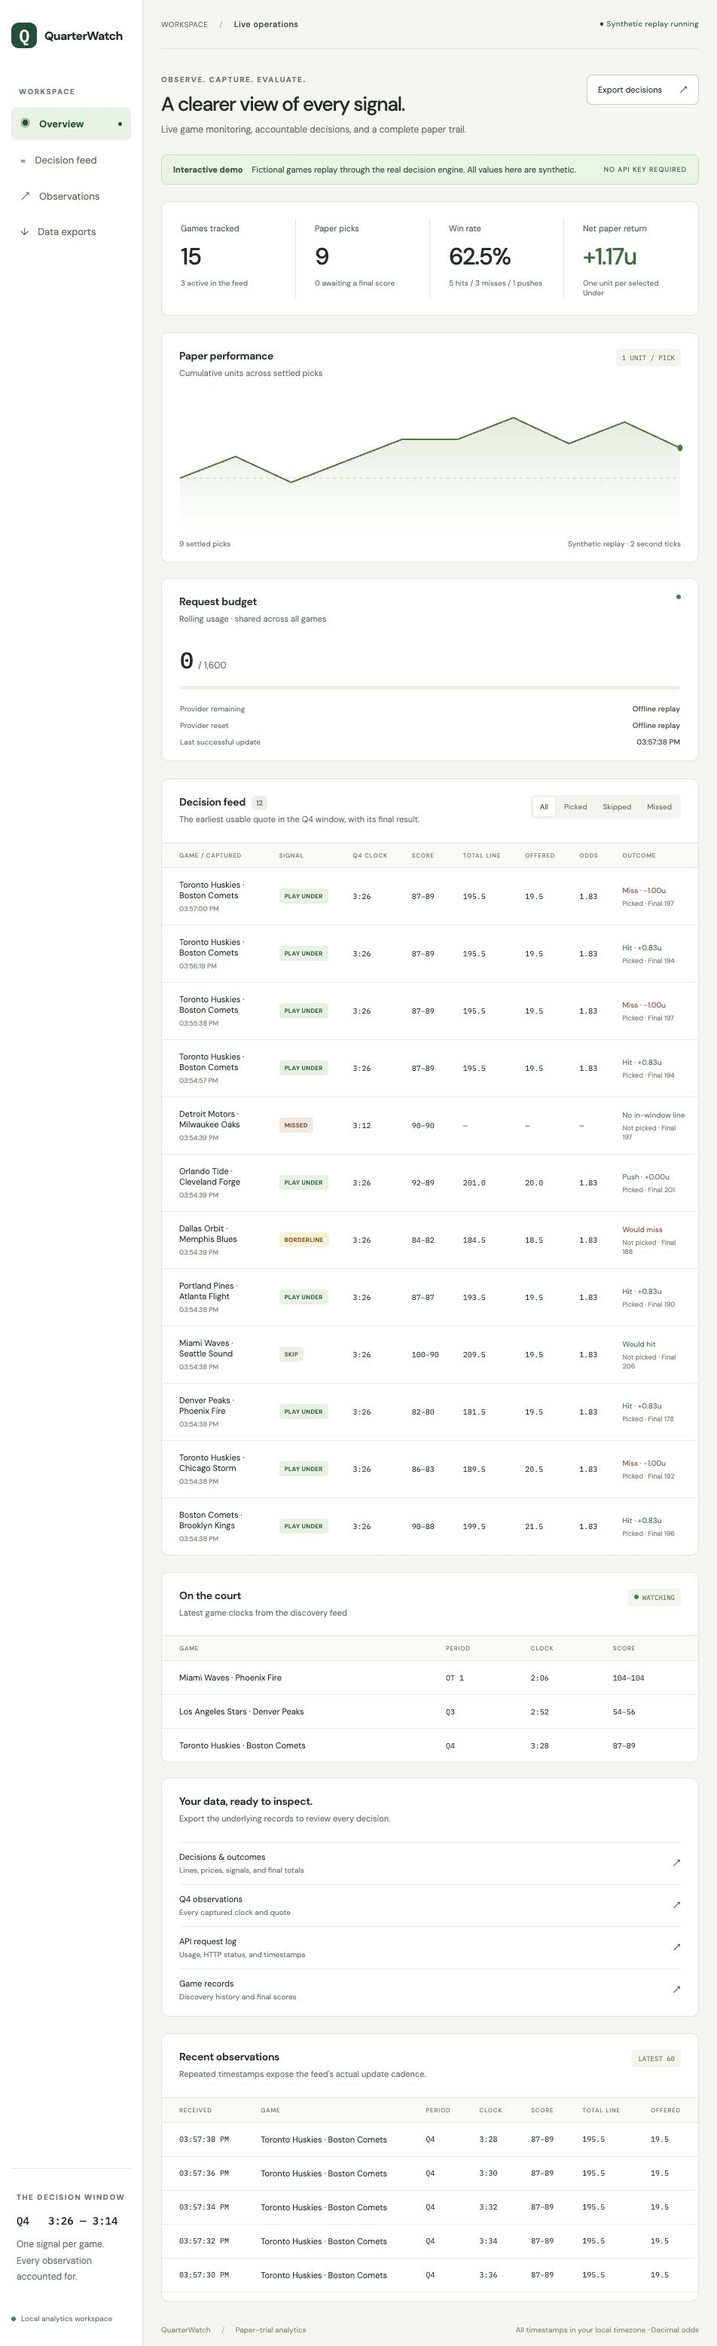
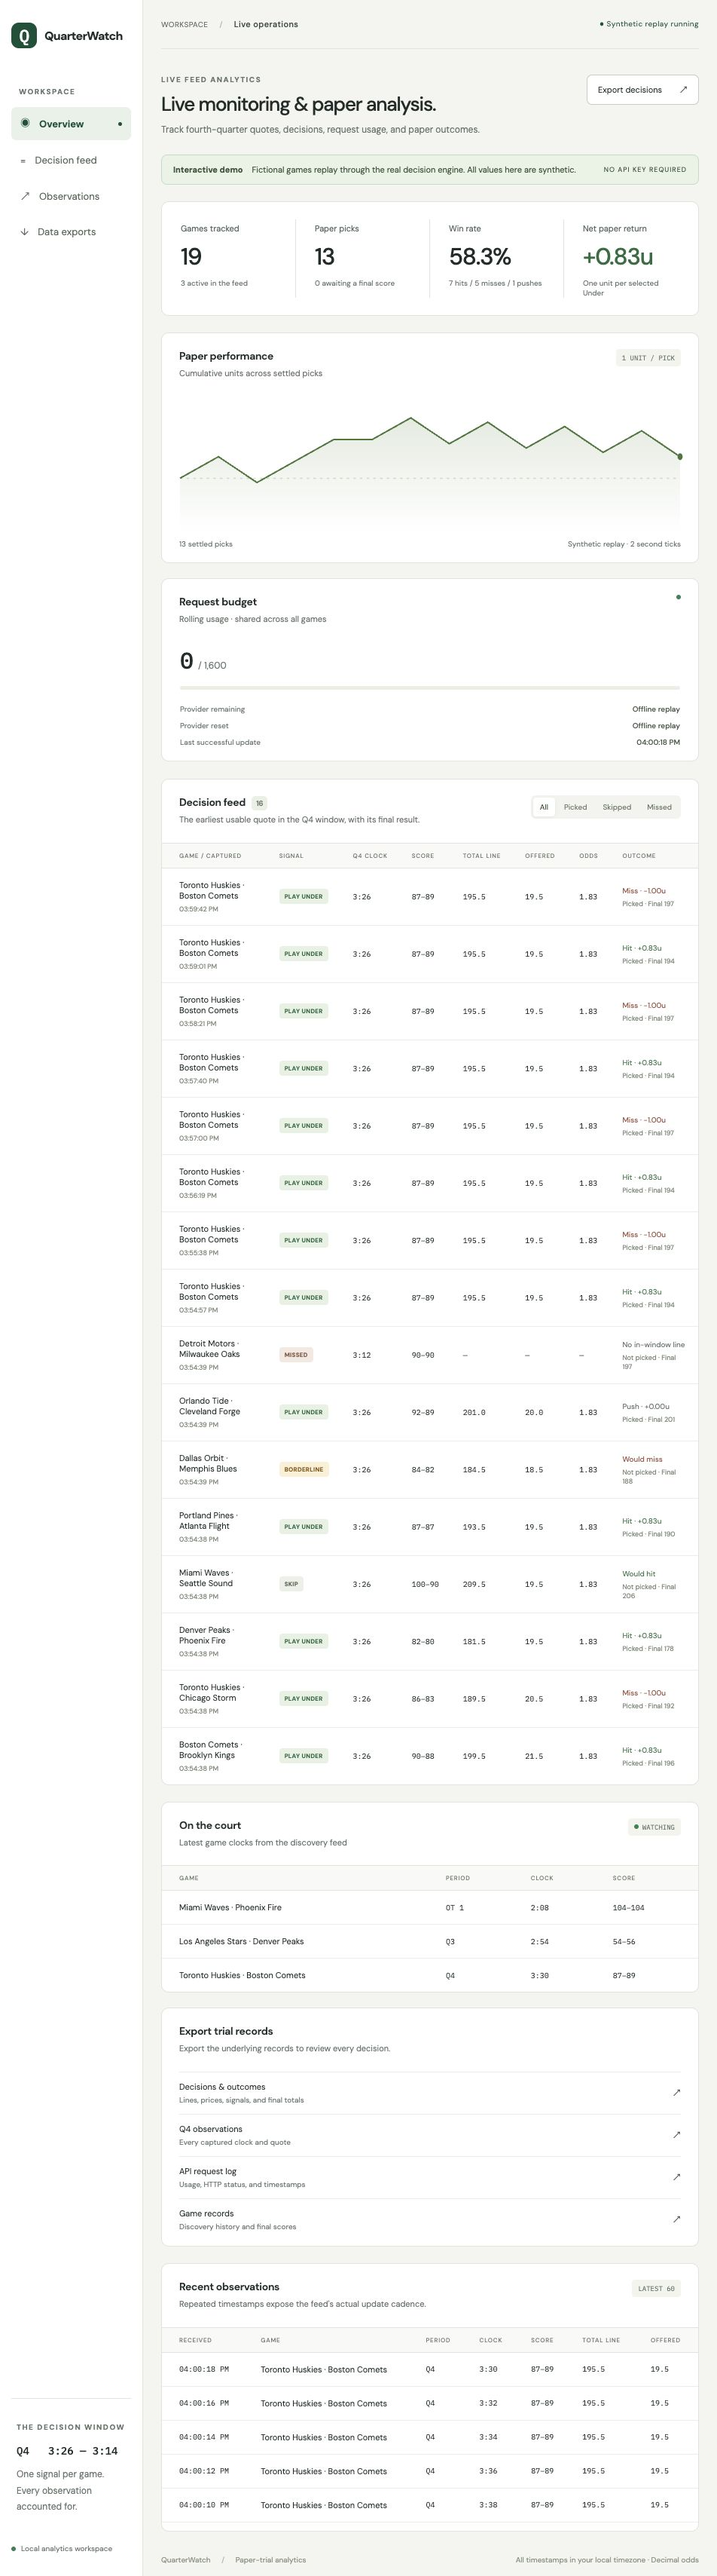
Harden suspended market handling and finalize the demo presentation

diff --git a/web/index.html b/web/index.html
@@ -24,7 +24,7 @@
   </aside>
   <main id="main">
     <header class="topbar"><span>WORKSPACE <span class="slash">/</span> <strong>Live operations</strong></span><span id="connection" role="status">Connecting…</span></header>
-    <section class="page-heading"><div><div class="eyebrow">OBSERVE. CAPTURE. EVALUATE.</div><h1>A clearer view of every signal.</h1><p>Live game monitoring, accountable decisions, and a complete paper trail.</p></div><a class="button" href="/export/decisions.csv">Export decisions <span>↗</span></a></section>
+    <section class="page-heading"><div><div class="eyebrow">LIVE FEED ANALYTICS</div><h1>Live monitoring &amp; paper analysis.</h1><p>Track fourth-quarter quotes, decisions, request usage, and paper outcomes.</p></div><a class="button" href="/export/decisions.csv">Export decisions <span>↗</span></a></section>
     <div id="demo-banner" class="demo-banner" hidden><strong>Interactive demo</strong><span>Fictional games replay through the real decision engine. All values here are synthetic.</span><span class="demo-dot">NO API KEY REQUIRED</span></div>
     <div id="error" class="error" role="alert" hidden></div>
     <section class="metrics" aria-label="Trial summary">
@@ -40,7 +40,7 @@
     <section class="card" id="decision-feed"><div class="card-heading"><div><h2>Decision feed <span class="count" id="decision-count">0</span></h2><p>The earliest usable quote in the Q4 window, with its final result.</p></div><div class="filters" role="group" aria-label="Filter decisions"><button class="active" data-filter="all" aria-pressed="true">All</button><button data-filter="picked" aria-pressed="false">Picked</button><button data-filter="skipped" aria-pressed="false">Skipped</button><button data-filter="missed" aria-pressed="false">Missed</button></div></div><div class="table-scroll"><table><thead><tr><th>GAME / CAPTURED</th><th>SIGNAL</th><th>Q4 CLOCK</th><th>SCORE</th><th>TOTAL LINE</th><th>OFFERED</th><th>ODDS</th><th>OUTCOME</th></tr></thead><tbody id="decisions"></tbody></table></div></section>
     <div class="lower-grid">
       <section class="card"><div class="card-heading"><div><h2>On the court</h2><p>Latest game clocks from the discovery feed</p></div><span class="chip"><span class="pulse"></span> WATCHING</span></div><div class="table-scroll"><table><thead><tr><th>GAME</th><th>PERIOD</th><th>CLOCK</th><th>SCORE</th></tr></thead><tbody id="events"></tbody></table></div></section>
-      <section class="card" id="exports"><div class="card-heading"><div><h2>Your data, ready to inspect.</h2><p>Export the underlying records to review every decision.</p></div></div><div class="export-list"><a href="/export/decisions.csv"><span>Decisions & outcomes <small>Lines, prices, signals, and final totals</small></span>↗</a><a href="/export/observations.csv"><span>Q4 observations <small>Every captured clock and quote</small></span>↗</a><a href="/export/calls.csv"><span>API request log <small>Usage, HTTP status, and timestamps</small></span>↗</a><a href="/export/events.csv"><span>Game records <small>Discovery history and final scores</small></span>↗</a></div></section>
+      <section class="card" id="exports"><div class="card-heading"><div><h2>Export trial records</h2><p>Export the underlying records to review every decision.</p></div></div><div class="export-list"><a href="/export/decisions.csv"><span>Decisions & outcomes <small>Lines, prices, signals, and final totals</small></span>↗</a><a href="/export/observations.csv"><span>Q4 observations <small>Every captured clock and quote</small></span>↗</a><a href="/export/calls.csv"><span>API request log <small>Usage, HTTP status, and timestamps</small></span>↗</a><a href="/export/events.csv"><span>Game records <small>Discovery history and final scores</small></span>↗</a></div></section>
     </div>
     <section class="card" id="observations"><div class="card-heading"><div><h2>Recent observations</h2><p>Repeated timestamps expose the feed's actual update cadence.</p></div><span class="chip">LATEST 60</span></div><div class="table-scroll observation-scroll"><table><thead><tr><th>RECEIVED</th><th>GAME</th><th>PERIOD</th><th>CLOCK</th><th>SCORE</th><th>TOTAL LINE</th><th>OFFERED</th></tr></thead><tbody id="observation-rows"></tbody></table></div></section>
     <footer><span>QuarterWatch <span class="slash">/</span> Paper-trial analytics</span><span>All timestamps in your local timezone · Decimal odds</span></footer>

diff --git a/quarterwatch.py b/quarterwatch.py
@@ -146,11 +146,13 @@ def full_game_under(rows):
     """Select the active full-game Under from a Total market, excluding Q/half/team totals."""
     market = None
     group = ""
+    group_suspended = False
     for row in rows:
         typ = row.get("type")
         if typ == "MG":
             if str(row.get("NA") or "").strip():
                 group = str(row["NA"]).strip().lower()
+                group_suspended = str(row.get("SU", "0")) == "1"
             market = None
         elif typ == "MA":
             name = str(row.get("NA", "")).strip().lower()
@@ -163,7 +165,7 @@ def full_game_under(rows):
                     for bad in ("quarter", "half", "team", "player", "1st", "2nd", "3rd", "4th", "period")
                 )
             )
-            market = row if valid and str(row.get("SU", "0")) != "1" else None
+            market = row if valid and not group_suspended and str(row.get("SU", "0")) != "1" else None
         elif typ == "PA" and market and str(row.get("SU", "0")) != "1":
             under = (
                 str(row.get("NA", "")).strip().lower() == "under"

diff --git a/tests/test_engine.py b/tests/test_engine.py
@@ -80,6 +80,14 @@ class TrialTests(unittest.TestCase):
     def test_result_joins_on_bet365_id(self):
         self.assertEqual(g.result_event_id({"id": "internal-42", "bet365_id": "fixture-42"}), "fixture-42")
 
+    def test_suspended_parent_market_is_not_used(self):
+        rows = [
+            {"type": "MG", "NA": "Game Lines", "SU": "1"},
+            {"type": "MA", "NA": "Total", "SU": "0"},
+            {"type": "PA", "HD": "U 110.5", "HA": "110.5", "OD": "5/6", "SU": "0"},
+        ]
+        self.assertEqual(g.full_game_under(rows), (None, None, None))
+
     def test_window_polling_replays_clock_jumps_and_keeps_polling_after_pick(self):
         timestamp = 10000.0
         detail_clocks = {event_id: [] for event_id in ("7", "8", "9", "10")}
